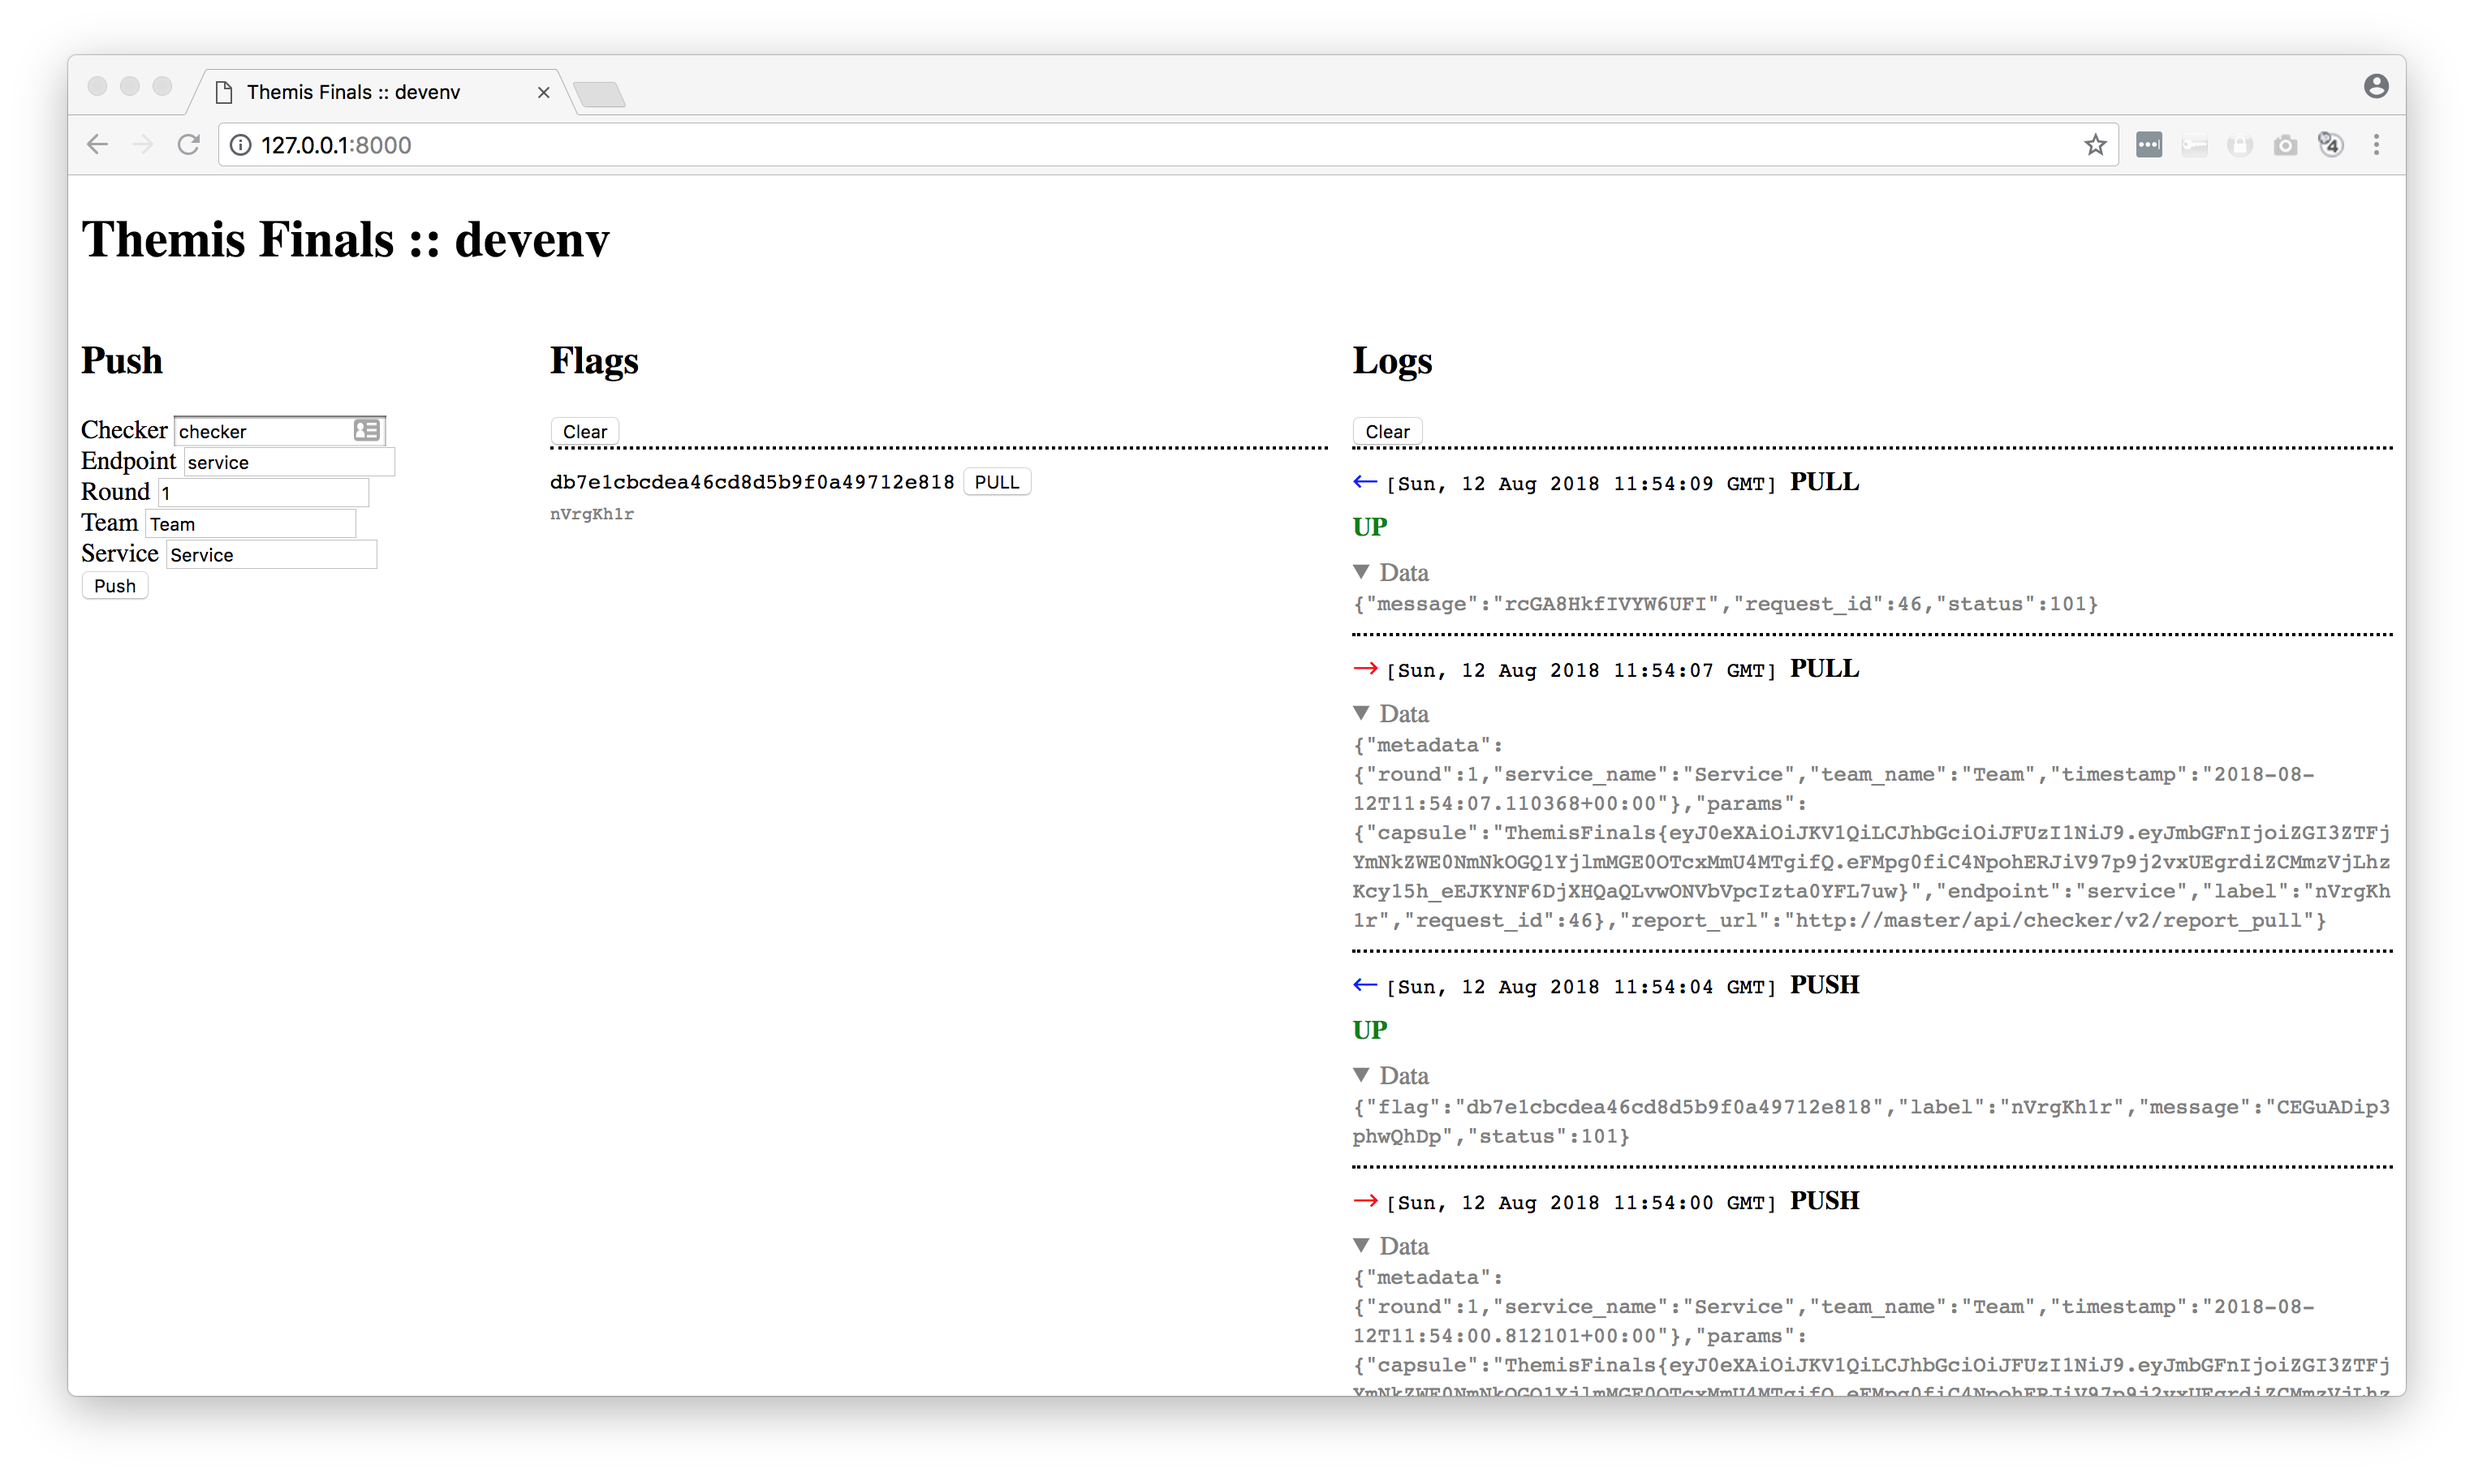
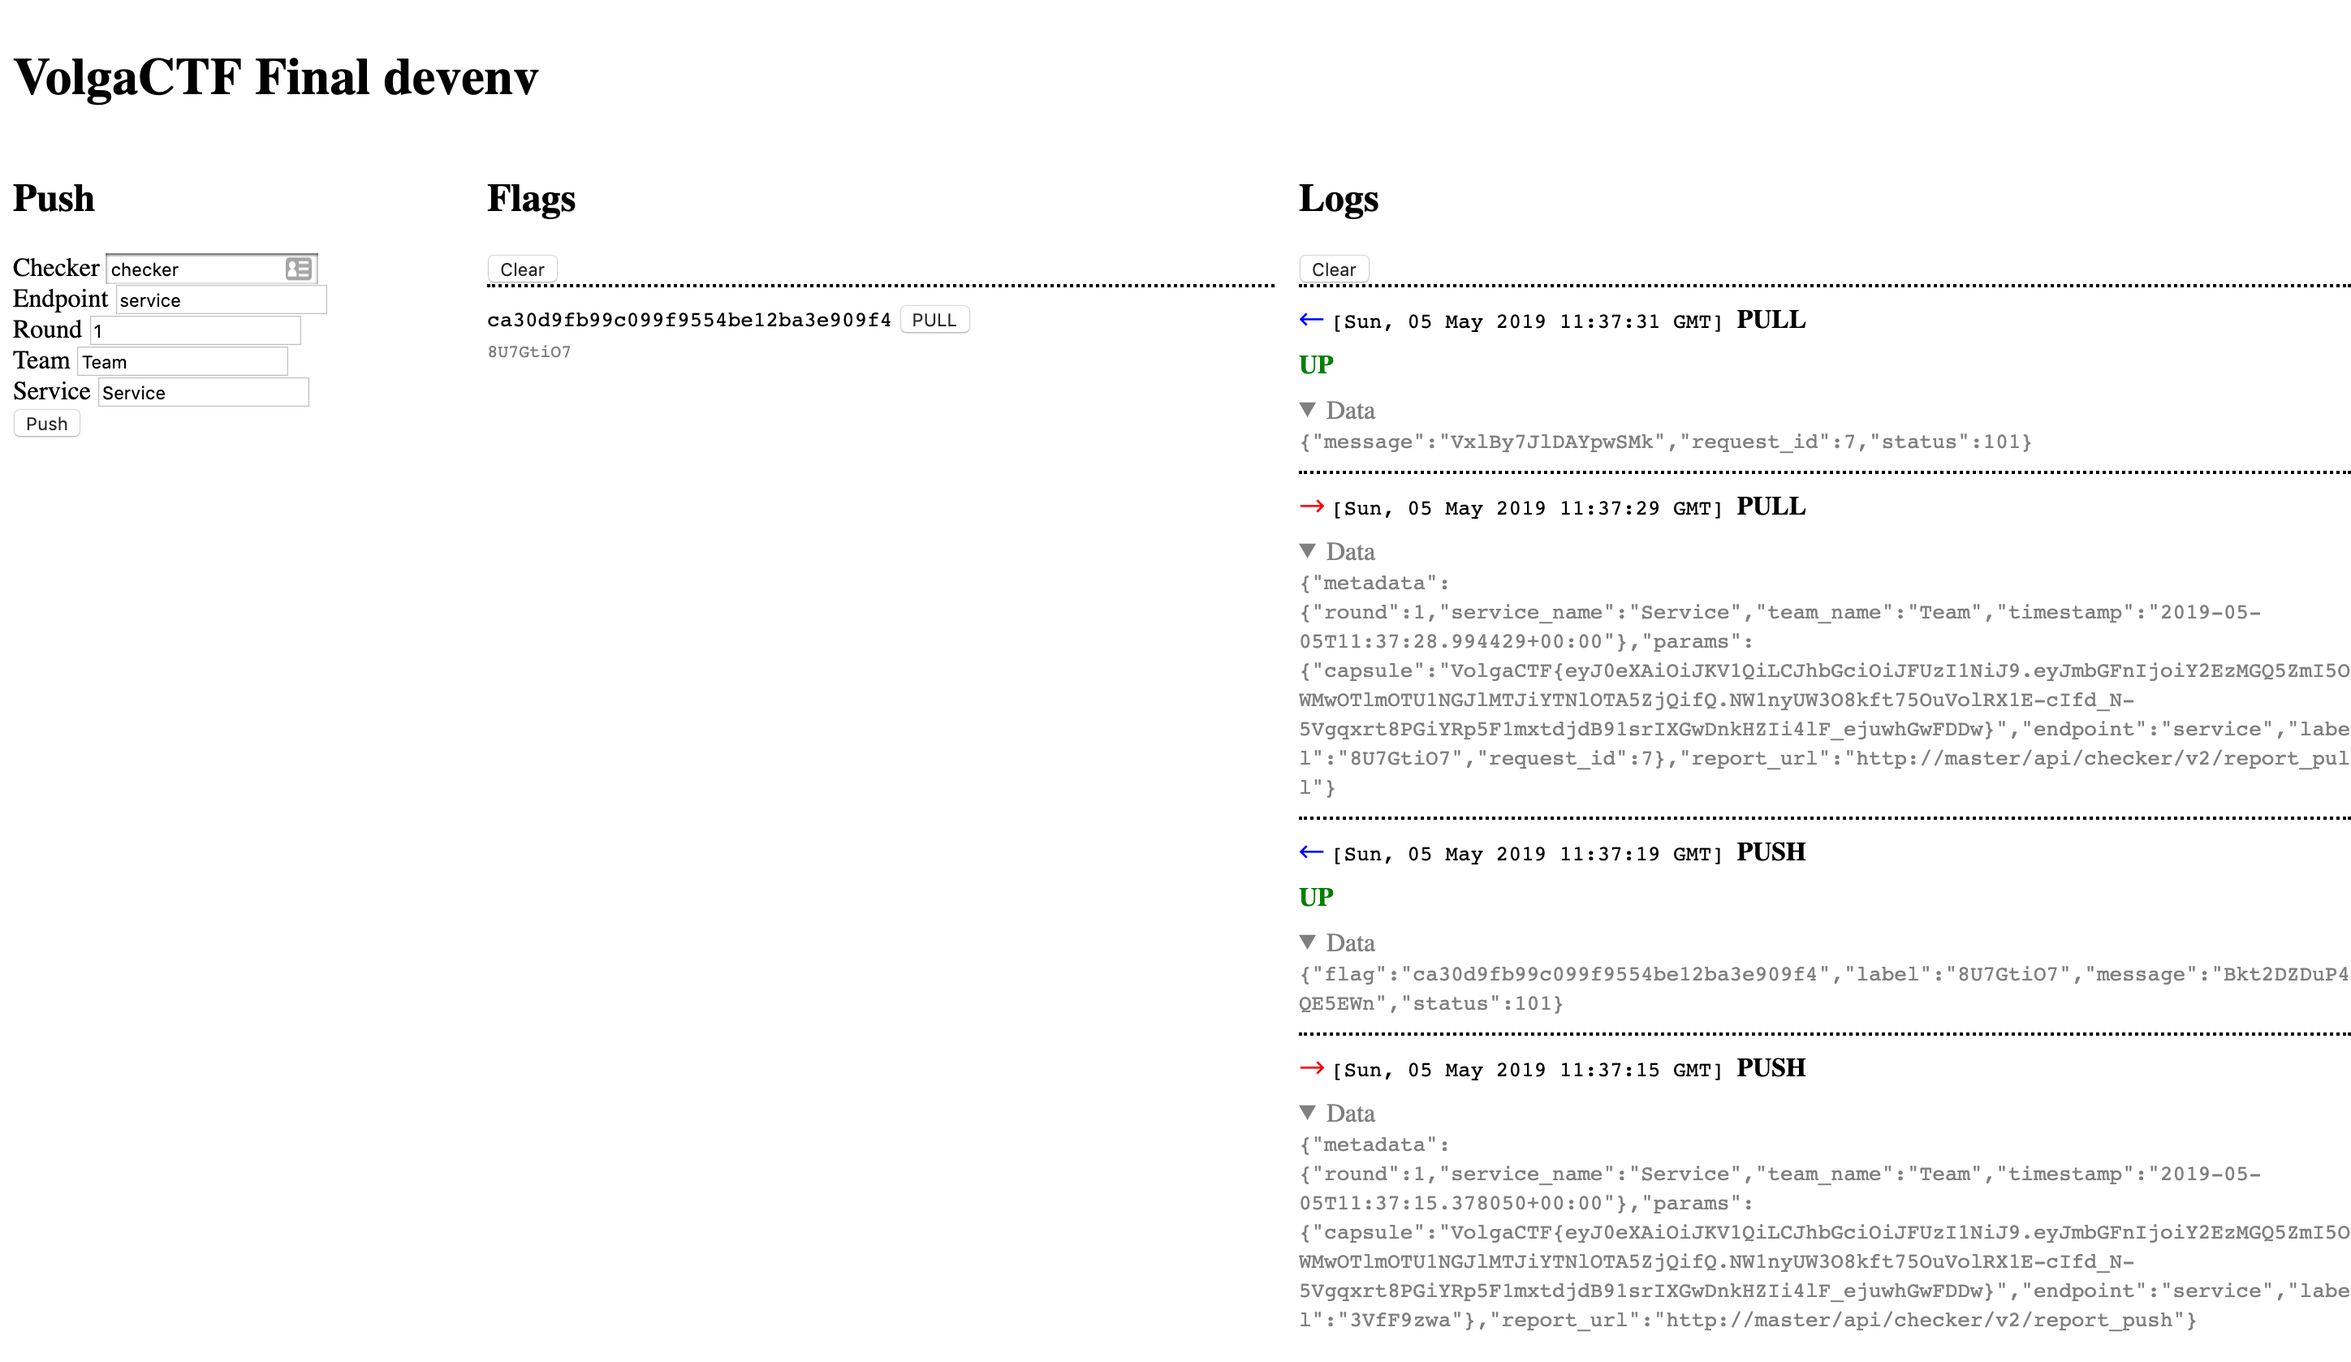
Updates

diff --git a/env_vars.py b/env_vars.py
@@ -11,7 +11,7 @@ def get_random_str(size=16):
 
 
 def main():
-    with open('themis-finals-auth.env', 'w', encoding='utf-8') as f1:
+    with open('volgactf-final-auth.env', 'w', encoding='utf-8') as f1:
         master_pwd = get_random_str()
         checker_pwd = get_random_str()
         template1 = (
@@ -30,21 +30,21 @@ def main():
     private_key = SigningKey.generate(curve=NIST256p)
     public_key = private_key.get_verifying_key()
 
-    with open('themis-finals-public.env', 'w', encoding='utf-8') as f2:
+    with open('volgactf-final-public.env', 'w', encoding='utf-8') as f2:
         template2 = (
             'THEMIS_FINALS_FLAG_SIGN_KEY_PUBLIC={0}\n'
             'THEMIS_FINALS_FLAG_WRAP_PREFIX={1}\n'
             'THEMIS_FINALS_FLAG_WRAP_SUFFIX={2}'
         ).format(
             public_key.to_pem().decode('ascii').strip().replace('\n', '\\n'),
-            'ThemisFinals{',
+            'VolgaCTF{',
             '}'
         )
         f2.write(template2)
 
     secret = urlsafe_b64encode(urandom(32)).decode('ascii')
 
-    with open('themis-finals-private.env', 'w', encoding='utf-8') as f3:
+    with open('volgactf-final-private.env', 'w', encoding='utf-8') as f3:
         template3 = (
             'THEMIS_FINALS_FLAG_SIGN_KEY_PRIVATE={0}\n'
             'THEMIS_FINALS_FLAG_GENERATOR_SECRET={1}'

diff --git a/README.md b/README.md
@@ -1,12 +1,13 @@
-# Themis Finals devenv
-A platform to develop & test a service checker
+# VolgaCTF Final devenv
+
+A platform to develop & test an A/D CTF service and its checker.
 
 ## Prerequisites
 - *nix compatible system
 - [Docker Compose](https://docs.docker.com/compose/)
 - Python 3
 
-## A general look
+## A general outlook
 This repository contains a docker-compose configuration for several containers, namely `redis`, `master`, `checker` and `service`, which provide a development and testing environment.
 
 ## Network
@@ -29,37 +30,36 @@ $ docker-compose up
 Run containers in foreground (add `-d` flag to run in background). One may need to launch any `docker-compose` command as a superuser.
 
 ## Usage
-Provided that everything is installed correctly, a dashboard is available on `http://127.0.0.1:8000`. ![dashboard](screenshot.png "Themis Finals devenv")
+Provided that everything is installed correctly, a dashboard is available on `http://127.0.0.1:8000`. ![dashboard](screenshot.png "VolgaCTF Final devenv")
 
-The form on the left helps specify `PUSH` operation parameters. Note that `Checker` and `Endpoint` fields stand for a checker and a service container hostnames or IP addresses, so that other checkers and/or services may be used, regardless of whether they belong to this docker-compose deployment or not.
+The form on the left helps specify `PUSH` operation parameters. Note that `Checker` and `Endpoint` fields stand for a checker and a service container hostnames or IP addresses, so that other checkers and/or services may be used, regardless of whether they belong to the very docker-compose deployment or not.
 
 The section in the middle is populated with all pushed flags so that a `PULL` operation may be initiated. Note that `PULL` button is active only when an antecedent `PUSH` operation was successful.
 
 Detailed logs comprise the section on the right.
 
 ## Development
-To develop & test your a service along with a checker, `service` and `checker` sections in `docker-compose.yml` should be modified accordingly:
+To develop & test a service along with a checker, `service` and `checker` sections in `docker-compose.yml` should be modified accordingly:
 
 *docker-compose.yml*
 ```yaml
   ...
   checker:
-    # image: 'aspyatkin/themis-finals-devenv-checker:v1.0.0'
-    image: 'awesome/awesome-checker:v1.0.0'
+    # image: 'volgactf/volgactf-final-devenv-checker:1.0.0'
+    image: 'awesome/awesome-checker:1.0.0'
 
   service:
-    # image: 'aspyatkin/themis-finals-devenv-service:v1.0.0'
-    image: 'awesome/awesome-service:v1.0.0'
+    # image: 'volgactf/volgactf-final-devenv-service:1.0.0'
+    image: 'awesome/awesome-service:1.0.0'
   ...
 ```
 
 ## See also
 
-1. [master container source](https://github.com/themis-project/themis-finals-devenv-master)
-2. [service container source](https://github.com/themis-project/themis-finals-devenv-service)
-3. [checker container source](https://github.com/themis-project/themis-finals-devenv-checker)
-
-These may be used as boilerplate while devising new services and checkers.
+1. [master image source](https://github.com/VolgaCTF/volgactf-final-devenv-master)
+2. [service image source](https://github.com/VolgaCTF/volgactf-final-devenv-service)
+3. [checker image source](https://github.com/VolgaCTF/volgactf-final-devenv-checker)
+4. [checker protocol](https://github.com/VolgaCTF/volgactf-final-checker-protocol)
 
 ## License
-MIT @ [Alexander Pyatkin](https://github.com/aspyatkin)
+MIT @ [VolgaCTF](https://github.com/VolgaCTF)
